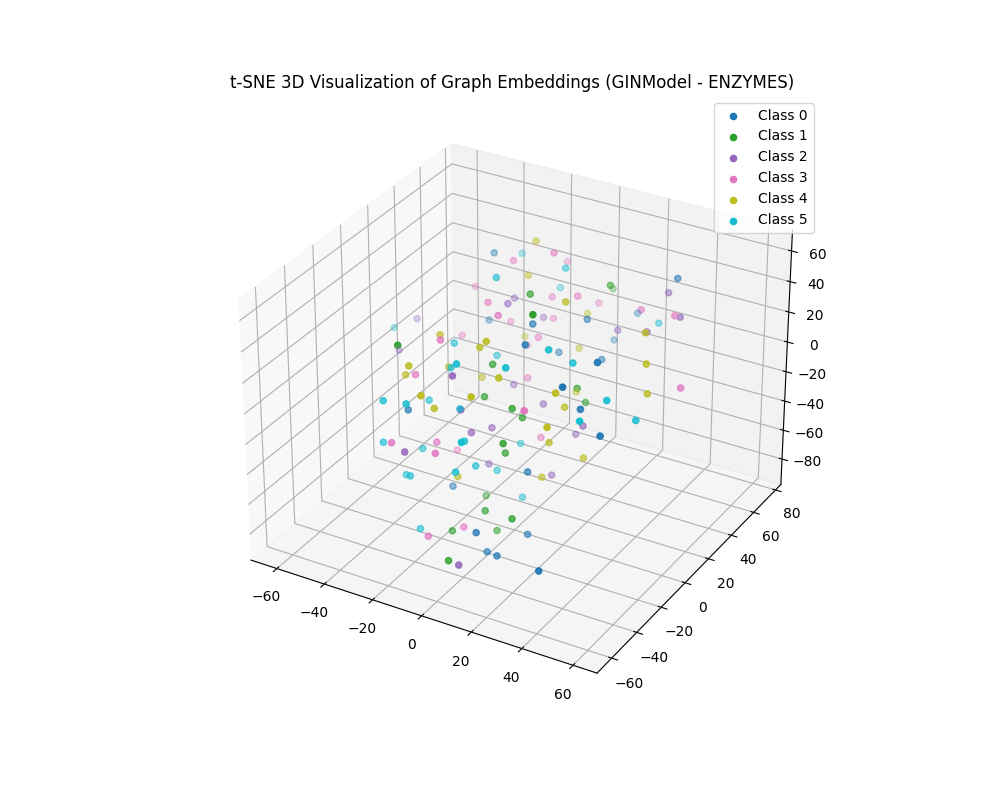
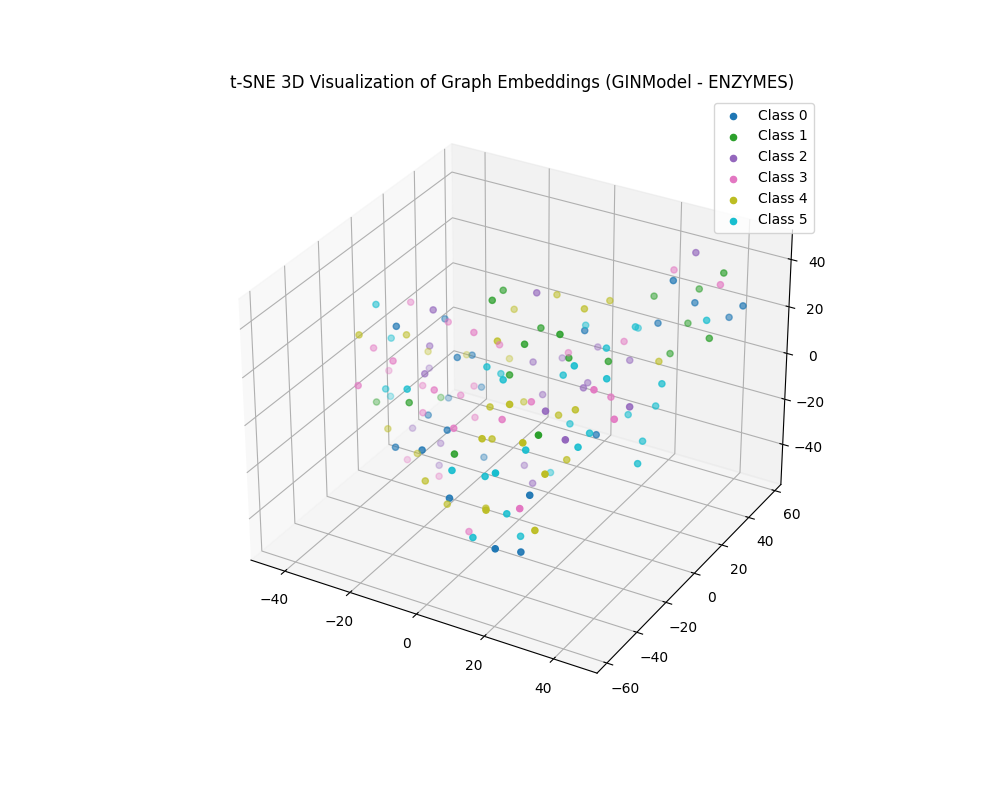
some small changes

diff --git a/embedding.py b/embedding.py
@@ -19,7 +19,7 @@ def visualize_embeddings(model, test_loader, dataset_name, model_name, save_dir)
             output = model(data)
         embeddings.extend(output.cpu().numpy())
         labels.extend(data.y.cpu().numpy())
-
+        
     embeddings = np.array(embeddings)
     labels = np.array(labels)
 
@@ -57,13 +57,10 @@ def visualize_embeddings_2d(embeddings, labels, dataset_name, model_name, save_d
 def visualize_embeddings_3d(embeddings, labels, dataset_name, model_name, save_dir):
     # Check if there are at least three features for 3D visualization
     if embeddings.shape[1] >= 3:
-        # Apply PCA to reduce dimensionality to 3D
-        pca = PCA(n_components=3)
-        embeddings_3d = pca.fit_transform(embeddings)
 
-        # Apply t-SNE for further dimensionality reduction to 3D
+        # Apply t-SNE for dimensionality reduction to 3D
         tsne = TSNE(n_components=3, random_state=42)
-        embeddings_3d = tsne.fit_transform(embeddings_3d)
+        embeddings_3d = tsne.fit_transform(embeddings)
 
         # Get unique labels and assign colors
         unique_labels = np.unique(labels)

diff --git a/logs.py b/logs.py
@@ -12,7 +12,7 @@ plt.figure(figsize=(16, 6 * num_datasets))
 for model in models_list:
     for i, dataset in enumerate(dataset_list):
         model_results_dir = os.path.join('results', model)
-        log_file_path = os.path.join(model_results_dir, 'logs_for_' + dataset + '.csv')
+        log_file_path = os.path.join(model_results_dir, f'logs_for_{dataset}.csv')
         log_df = pd.read_csv(log_file_path)
 
         # Extract data from the DataFrame
